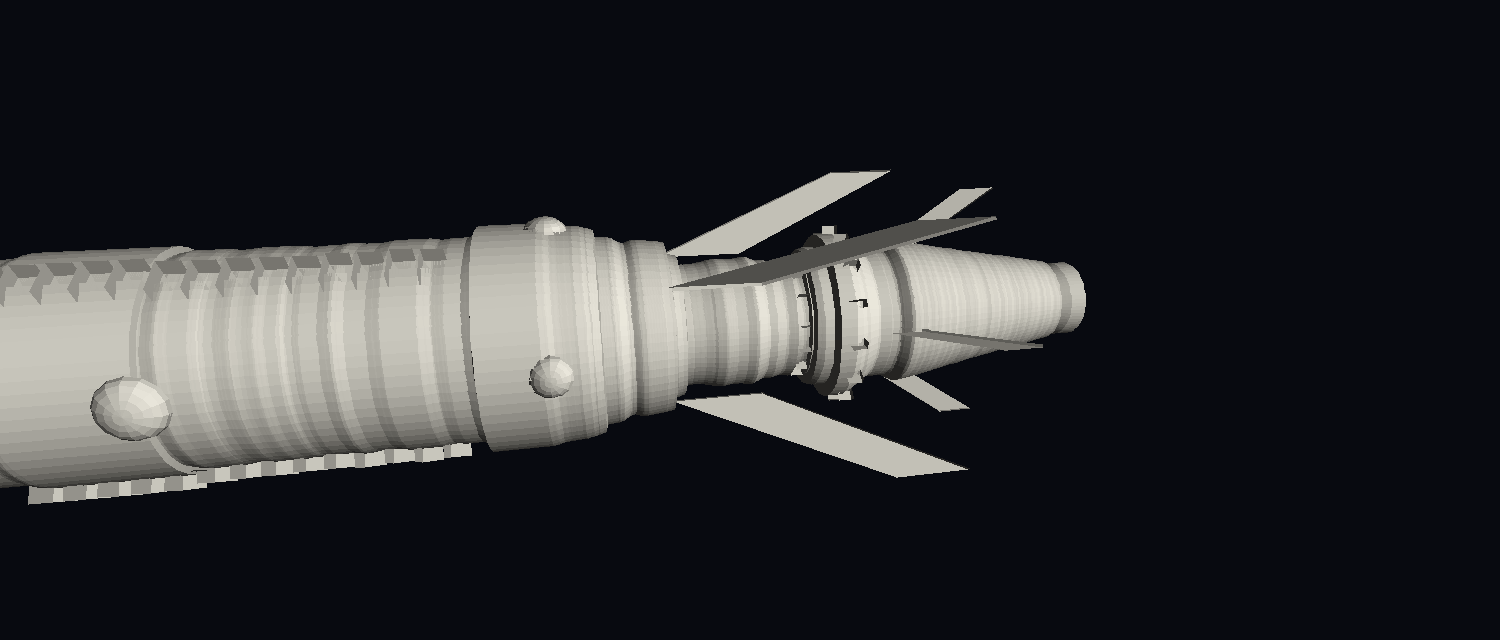
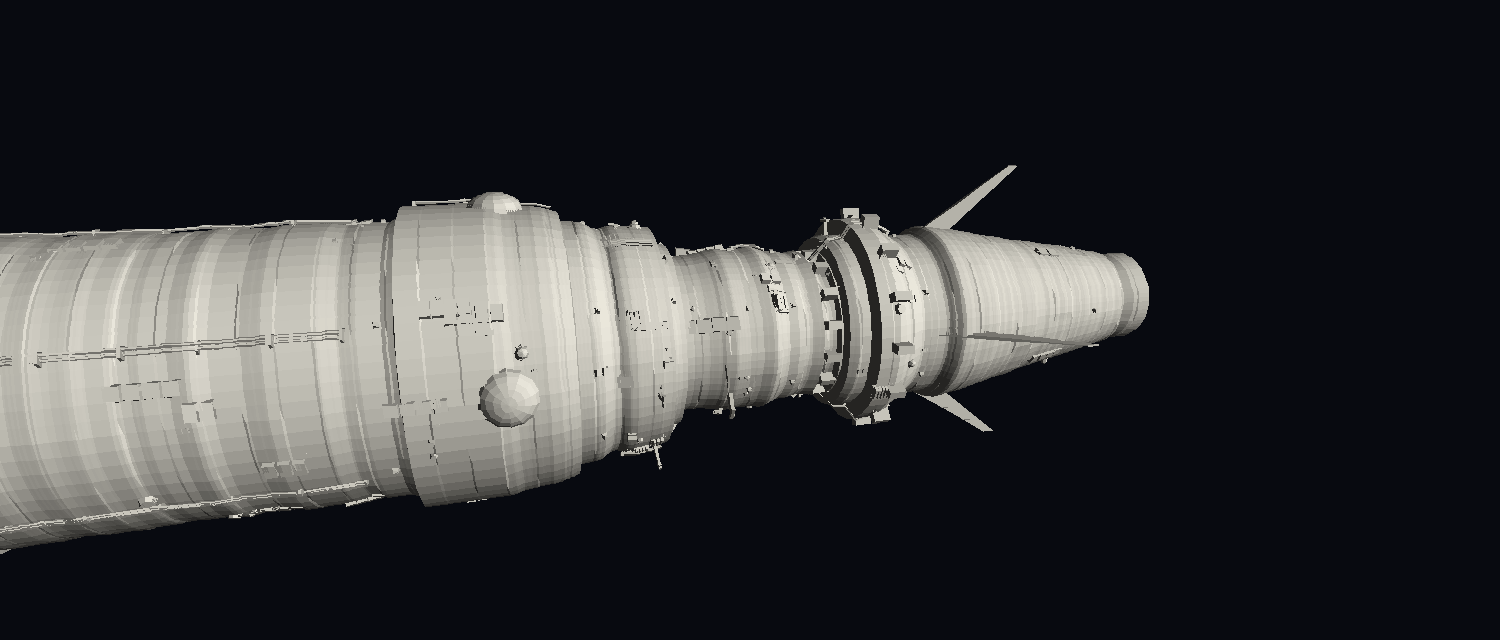
Correct cargo modules and the forward array from the reference sweep
Two exterior components were wrong and the sweep supplied the evidence.

Cargo modules drop from 42 to 6. The 42 conflated two different things: Miller's
table gives 28 plus 14 cargo BAYS, which are internal volumes, while the
orthographic sheet shows six external MODULES docked on a continuous raised
dorsal rail with grey plinths between them. A station with 42 bays and 6
modules attached is not a contradiction, it is a station that is not full. The
exterior systems list now calls the 42 cargo_bay so the two cannot be confused
again.

The forward swept arrays were built as four swept wings from the top view
alone. The side view shows a single flat plate-like communications array
carried above the forward hull on a short pylon, blading forward -- a plane,
not a wing pair. Four wings and one plate look alike in plan and nothing alike
in silhouette, which is precisely how a plan-only read goes wrong. Added a
plate_array kind rather than bending swept_fins into a shape it was not for.

Claude-Session: https://claude.ai/code/session_01LQinCXNhejLFW1oQqrfNCU

Changed region(s): [[0.0, 0.25, 0.7667, 0.875], [0.644, 0.6562, 0.6747, 0.6875]]

diff --git a/station/components.py b/station/components.py
@@ -426,7 +426,57 @@ def swept_fins(spec, profile):
     return verts, tris
 
 
+def plate_array(spec, profile):
+    """A flat plate carried above the hull on a short pylon, blading forward.
+
+    The forward structure was built as four swept wings from a top-view read of
+    "long swept structures". The orthographic sheet shows it is a single flat
+    plate-like communications array on a short pylon, extending forward as a
+    thin blade -- a plane, not a wing pair. Four wings and one plate look
+    similar in plan and nothing like each other in silhouette.
+    """
+    verts, tris = [], []
+    z0, z1 = spec["z0"], spec["z1"]
+    r0 = radius_at(profile, z0)
+    a = math.radians(spec.get("plane_deg", 90.0))
+    ca, sa = math.cos(a), math.sin(a)
+    tx, ty = -sa, ca
+    stand = spec.get("standoff_m", 70.0)
+    half = spec["width_m"] / 2.0
+    th = spec["thickness_m"] / 2.0
+    reach = spec.get("reach_m", 520.0)
+
+    # Pylon: short, and squarer than the plate it carries.
+    pr0, pr1 = r0 * 0.94, r0 + stand
+    pw = half * 0.20
+    quad = [(ca * pr0 - tx * pw, sa * pr0 - ty * pw, z0),
+            (ca * pr0 - tx * pw, sa * pr0 - ty * pw, z1),
+            (ca * pr1 - tx * pw, sa * pr1 - ty * pw, z1),
+            (ca * pr1 - tx * pw, sa * pr1 - ty * pw, z0)]
+    quad += [(x + 2 * tx * pw, y + 2 * ty * pw, z) for x, y, z in quad]
+    _box(verts, tris, quad)
+
+    # Plate: thin in the radial direction, wide across, reaching forward and
+    # tapering as it goes. Built in spanwise strips so the taper is a shape
+    # rather than a single wedge.
+    rp = r0 + stand
+    nseg = spec.get("segments", 5)
+    for k in range(nseg):
+        f0, f1 = k / nseg, (k + 1) / nseg
+        za, zb = z1 + reach * f0, z1 + reach * f1
+        w0 = half * (1.0 - 0.62 * f0)
+        w1 = half * (1.0 - 0.62 * f1)
+        quad = [(ca * rp - tx * w0, sa * rp - ty * w0, za),
+                (ca * rp + tx * w0, sa * rp + ty * w0, za),
+                (ca * rp + tx * w1, sa * rp + ty * w1, zb),
+                (ca * rp - tx * w1, sa * rp - ty * w1, zb)]
+        quad += [(x + ca * th * 2, y + sa * th * 2, z) for x, y, z in quad]
+        _box(verts, tris, quad)
+    return verts, tris
+
+
 BUILDERS = {
+    "plate_array": plate_array,
     "planar_blades": planar_blades,
     "domes": domes,
     "swept_fins": swept_fins,

diff --git a/STATE.md b/STATE.md
@@ -317,6 +317,22 @@ sensor and deflector arrays.
   whatever is through the windows. If structure alone reaches 60 k the kit has become too
   expensive to dress.
 
+## Session 2t — exterior corrections from the reference sweep
+
+- **Cargo modules: 42 → 6.** The 42 conflated two different things. Miller's table gives
+  28 + 14 = 42 cargo **bays**, which are internal volumes; the orthographic sheet shows **six
+  external modules** docked on a continuous raised dorsal rail with plinths between them. A
+  station with 42 bays and 6 modules attached is not a contradiction — it is a station that is
+  not full. The exterior systems list now says `cargo_bay` for the 42.
+- **Forward "swept arrays" were wrong.** Built as four swept wings from a *top view alone*; the
+  side view shows a single **flat plate-like communications array on a short pylon, blading
+  forward** — a plane, not a wing pair. Four wings and one plate look alike in plan and nothing
+  alike in silhouette, which is exactly how a plan-only read goes wrong. New `plate_array` kind.
+- **CONFLICTS.md status header added.** The file is append-only, 1,378 lines, with eight C-003
+  entries — one headed RESOLVED followed by four later notes narrowing it. A reader could act
+  on a heading and be wrong. There is now a CURRENT STATUS table at the top, and the schema
+  carries `assignment_status: OPEN_BLOCKING` with an assertion keeping it there.
+
 ## Autonomous continuation
 
 A **6-hourly** trigger (`trig_01JS1VWf6yada5x6maPMAzza`, fires at :45) continues the plan
@@ -621,19 +637,17 @@ hollow — but a cartoon's fill is not a label, so C-003 correctly stays open.
 
 ## Next session — start here
 
-1. **Refine the remaining crude components.** Radiators are measured (2o); still box
-   primitives with no articulation: forward swept arrays, cobra bays, docking ports,
-   observation domes and rotundas. Greebles cannot rescue a wrong silhouette.
-2. **Emissive materials in the preview renderer.** `godot/materials/` has the `.tres`
-   resources, but `tools/preview_render.py` has no concept of emission, so every deck light
-   channel, pilaster strip and door indicator renders as grey plastic. The kit's whole lighting
-   premise is currently untestable on the fast path.
-3. **Deck tile phase across junctions** — the grid is not driven from a shared origin, so
+1. **Remaining crude components.** Cobra bays, docking ports, observation domes and rotundas
+   are still box primitives. Radiators (2o), cargo modules and the forward comms plate (2t)
+   are now reference-corrected.
+2. **Deck tile phase across junctions** — the grid is not driven from a shared origin, so
    there is a visible seam at each crossing mouth.
+3. **Two structurally different drum end caps** appear across frames (`Babylon_5_2-22_34b`
+   panelled grey concentric disc vs `33a` deep red-orange open triangulated lattice). Flagged
+   in the 2r sweep, unresolved, and it changes what the drum generator emits at each end.
 4. **Publish the Godot binary** as a Release asset — container-local, 61 minutes to rebuild.
-   See `docs/godot-binary.md`.
-5. **C-003 / C-004** still block interior *layout*, on one narrow question: radial decks are
-   established, but **which ring is level 1** is not.
+5. **C-003 assignment** and **C-004 numbering** still block interior layout. One question each:
+   which longitudinal band is the drum, and which ring is level 1.
 
 ## Blocked
 
